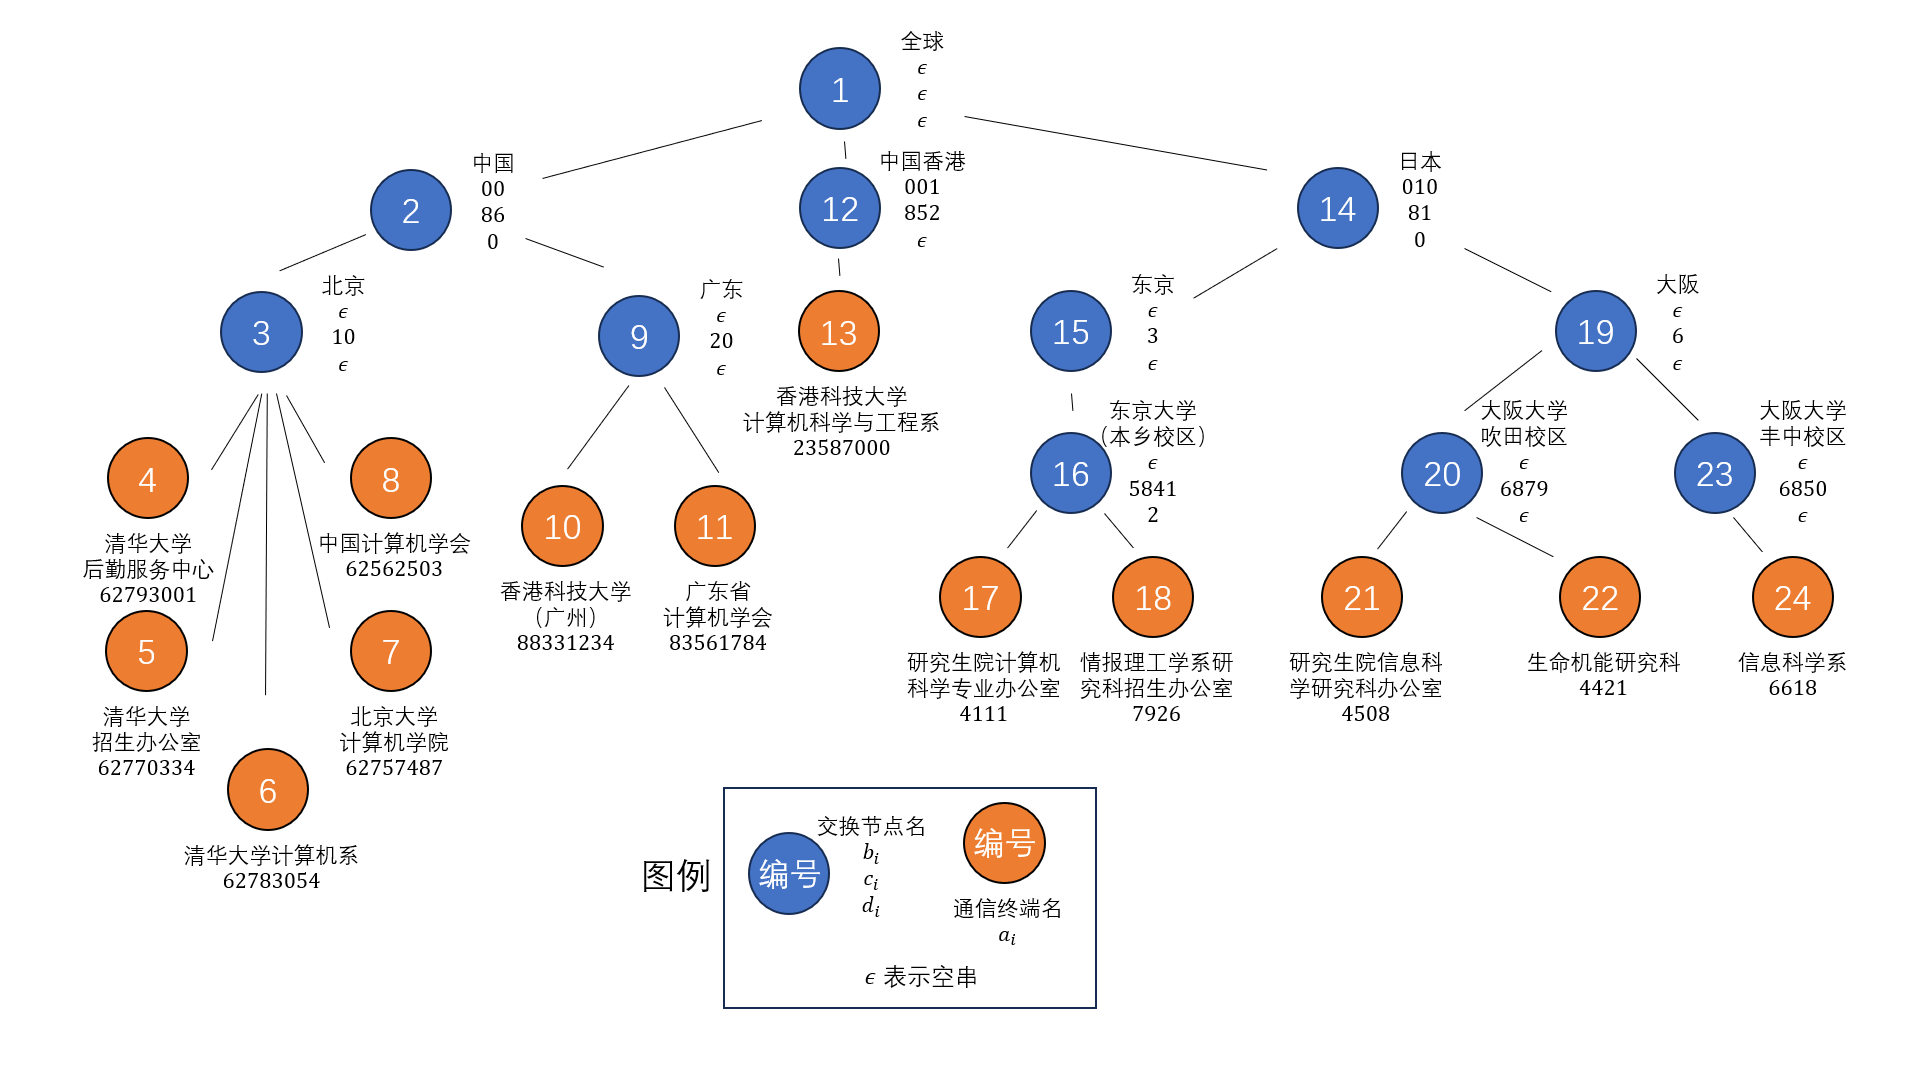
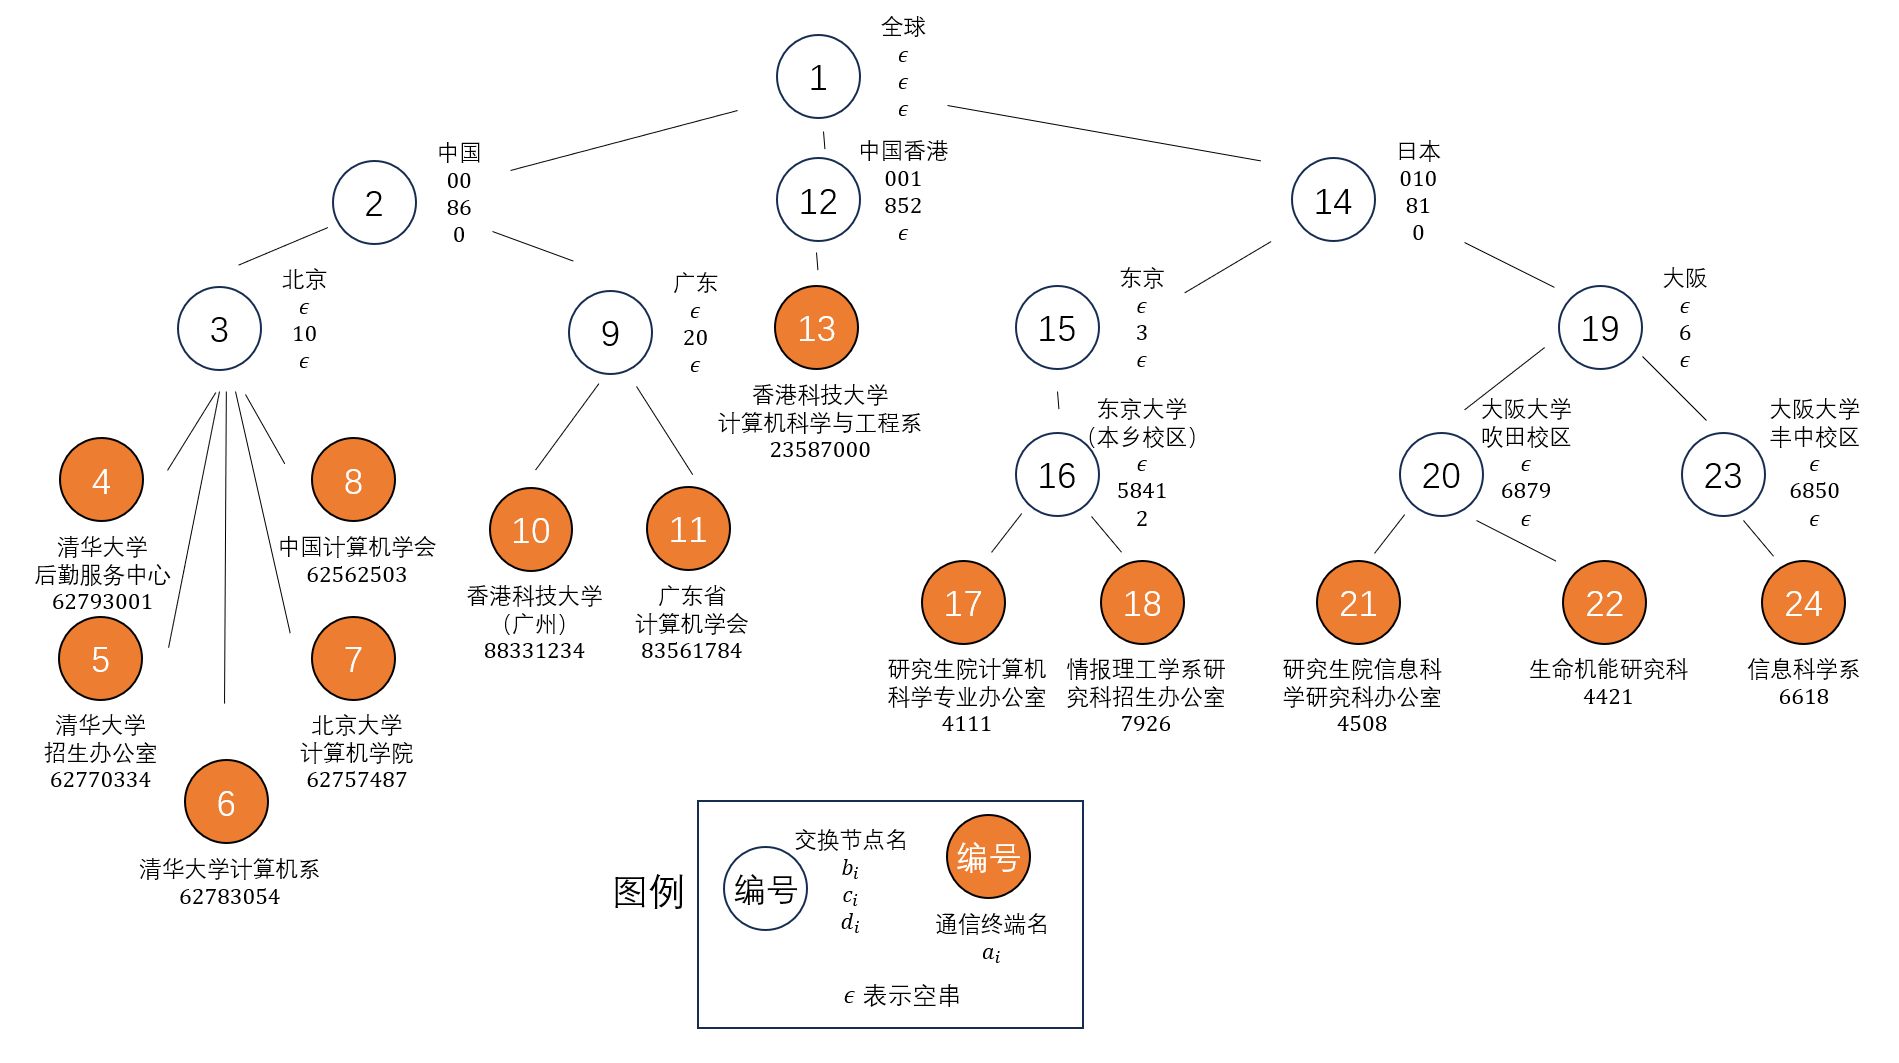
update figs

diff --git a/day1/D/statement/zh-cn.md b/day1/D/statement/zh-cn.md
@@ -44,7 +44,7 @@
 
 为方便理解题意，该样例使用了实际存在的电话号码。其表示的电话网络见下图。
 
-{{ img('sample1.png', size = 0.25, align = 'middle', inline = False, caption='样例 1 表示的电话网络', label='fig:sample') }}
+{{ img('sample1.png', size = 0.5, align = 'middle', inline = False, caption='样例 1 表示的电话网络', label='fig:sample') }}
 
 - 第一个询问的通话请求是从北京大学计算机学院至清华大学后勤综合服务热线/校内查号台。因为这两个结点的父结点均为结点 $3$（对应北京市），且父结点 $d_3=\varepsilon$，所以直接拨打对应电话即可。第二个询问为第一个询问加上区号的版本，在本题中认为该询问的电话号码无法拨通。
 
